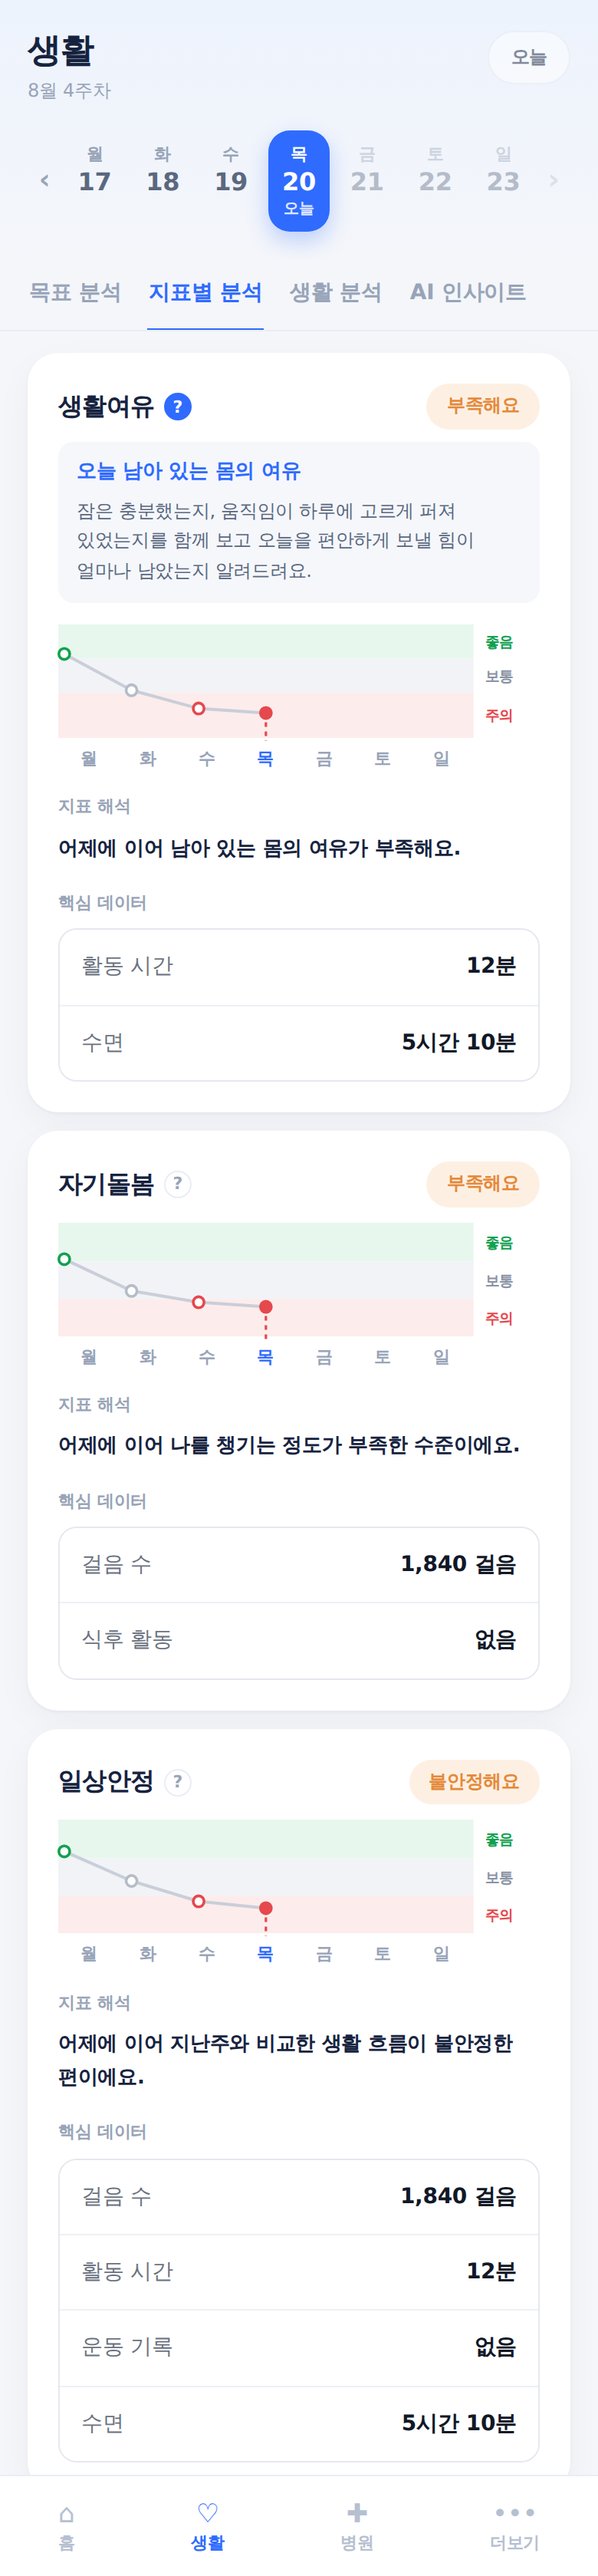
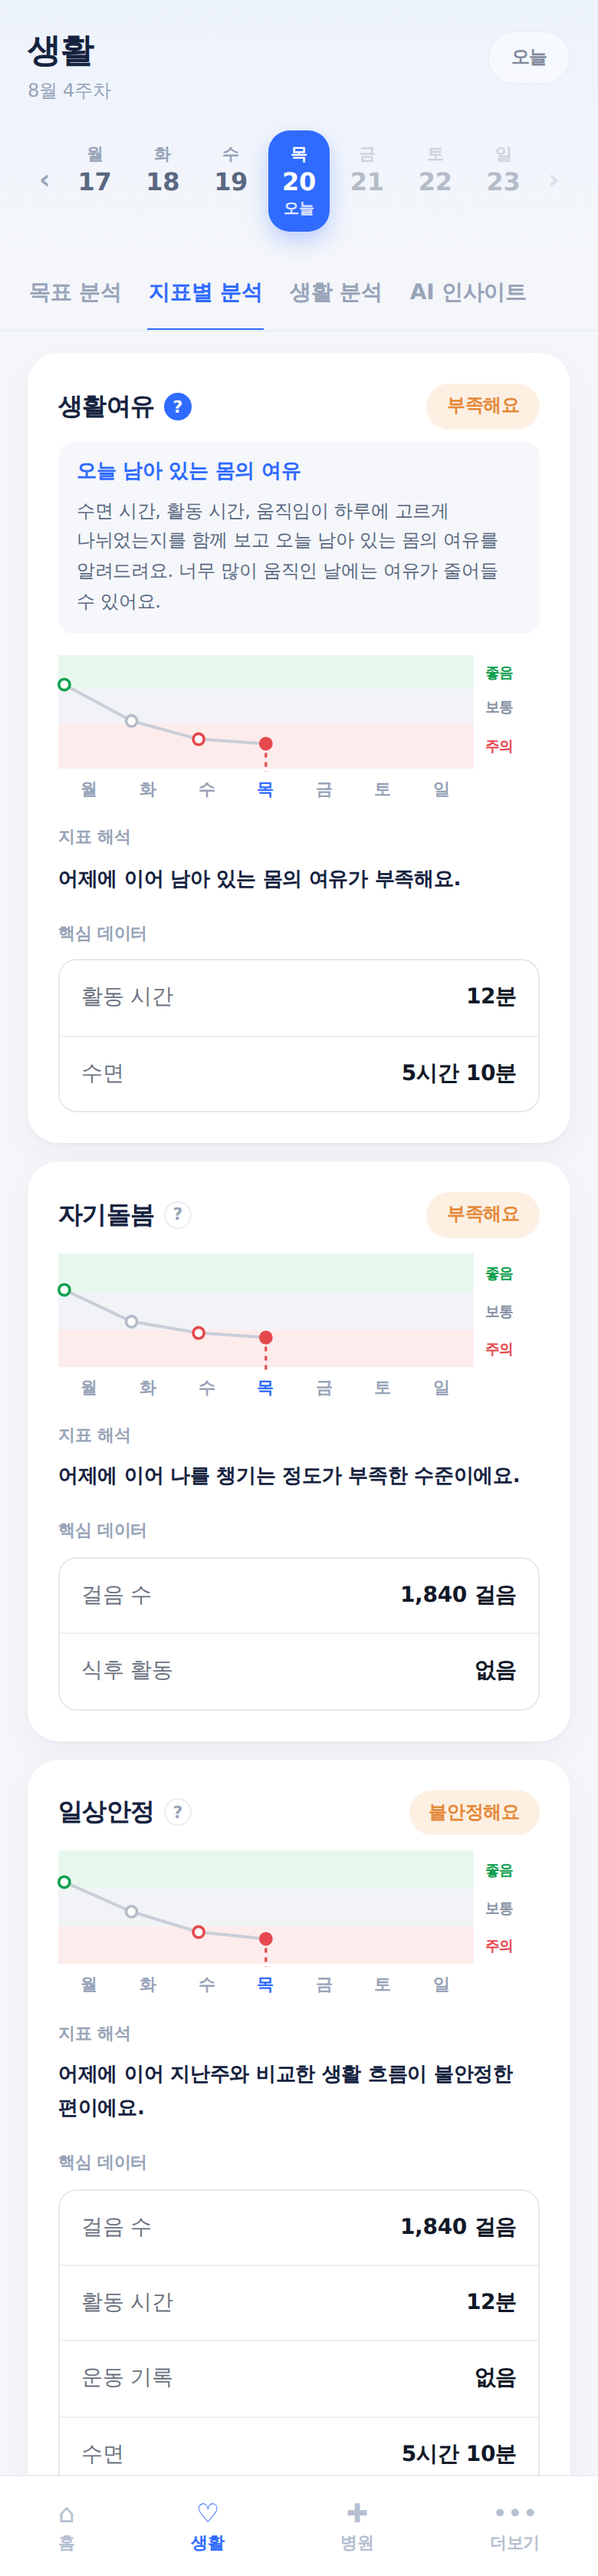
지표 설명 문장 다듬기

diff --git a/prototype.html b/prototype.html
@@ -3201,7 +3201,7 @@ const STATE_TONE = {
 const METRIC_COLOR = { margin:'#12A150', selfcare:'#D98A12', steady:'#7C5CFC' };
 const METRICS = [
   {k:'margin', nm:'생활여유', en:'Life Margin',
-   desc:'오늘 남아 있는 몸의 여유', expl:'잠은 충분했는지, 움직임이 하루에 고르게 퍼져 있었는지를 함께 보고 오늘을 편안하게 보낼 힘이 얼마나 남았는지 알려드려요.',
+   desc:'오늘 남아 있는 몸의 여유', expl:'수면 시간, 활동 시간, 움직임이 하루에 고르게 나뉘었는지를 함께 보고 오늘 남아 있는 몸의 여유를 알려드려요. 너무 많이 움직인 날에는 여유가 줄어들 수 있어요.',
    states:{good:'충분해요', mid:'보통이에요', low:'부족해요'},
    state:'low', prev:'low',
    line:'오늘은 하루를 이어갈 여유가 많이 부족해요.',
@@ -3209,7 +3209,7 @@ const METRICS = [
    note:'화요일부터 수면이 짧고 자주 끊겼고 낮 활동도 거의 없어, 회복에 쓸 여유가 계속 줄어든 사흘이었어요.',
    rows:['sleep','active','exercise']},
   {k:'selfcare', nm:'자기돌봄', en:'Self-Care Moments',
-   desc:'오늘 나를 챙긴 정도', expl:'식사 뒤, 오래 앉아 있던 뒤처럼 몸을 챙기기 좋은 순간에 실제로 가볍게 움직였는지 살펴봐요. 많이 움직였는지가 아니라 알맞은 때에 움직였는지가 기준이에요.',
+   desc:'오늘 나를 챙긴 정도', expl:'하루 걸음 수와 식사 뒤 가볍게 움직였는지를 함께 보고 오늘 나를 얼마나 챙겼는지 알려드려요.',
    states:{good:'잘하고 있어요', mid:'보통이에요', low:'부족해요'},
    state:'low', prev:'low',
    line:'움직일 수 있는 순간에도 거의 쉬고 있어요.',
@@ -3217,7 +3217,7 @@ const METRICS = [
    note:'화요일 이후 식사 뒤나 오래 누워 있던 뒤에 이어지는 움직임이 거의 없었어요. 아픈 동안에는 자연스러운 흐름이에요.',
    rows:['active','exercise','record']},
   {k:'steady', nm:'일상안정', en:'Life Steadying',
-   desc:'지난주와 비교한 생활 흐름', expl:'최근 7일의 걸음·활동·운동 기록과 수면 규칙성을 그 전 7일과 비교해, 생활 흐름이 어느 쪽으로 바뀌었는지 봐요. 지난주와 비슷하면 보통이에요.',
+   desc:'지난주와 비교한 생활 흐름', expl:'최근 7일의 걸음 수 · 활동 시간 · 운동 기록과 수면 규칙성을 그 전 7일과 비교해, 생활 흐름이 안정적으로 이어지고 있는지 알려드려요.',
    states:{good:'안정적이에요', mid:'비슷해요', low:'불안정해요'},
    state:'low', prev:'low',
    line:'화요일부터 생활 신호가 평소 범위를 크게 벗어나 있어요.',

diff --git a/wip-metric.html b/wip-metric.html
@@ -622,7 +622,7 @@ const SIDE = {
       ["상세 규칙","‘지표 해석 문장 규칙’ 문서 참고"]]},
   info:{id:"LIFE-002", title:"지표 설명 펼침", img:()=>"info",
     desc:"지표명 옆 ‘?’를 누르면 지표 정의가 펼쳐지는 상태.",
-    info:[["한 줄 정의","고정 문구",["생활여유: ‘오늘 남아 있는 몸의 여유’","자기돌봄: ‘오늘 나를 챙긴 정도’","일상안정: ‘지난주와 비교한 생활 흐름’"]],["설명 · 생활여유","고정 문구","‘잠은 충분했는지, 움직임이 하루에 고르게 퍼져 있었는지를 함께 보고 오늘을 편안하게 보낼 힘이 얼마나 남았는지 알려드려요.’"],["설명 · 자기돌봄","고정 문구","‘식사 뒤, 오래 앉아 있던 뒤처럼 몸을 챙기기 좋은 순간에 실제로 가볍게 움직였는지 살펴봐요. 많이 움직였는지가 아니라 알맞은 때에 움직였는지가 기준이에요.’"],["설명 · 일상안정","고정 문구","‘최근 7일의 걸음·활동·운동 기록과 수면 규칙성을 그 전 7일과 비교해, 생활 흐름이 어느 쪽으로 바뀌었는지 봐요. 지난주와 비슷하면 보통이에요.’"]],
+    info:[["한 줄 정의","고정 문구",["생활여유: ‘오늘 남아 있는 몸의 여유’","자기돌봄: ‘오늘 나를 챙긴 정도’","일상안정: ‘지난주와 비교한 생활 흐름’"]],["설명 · 생활여유","고정 문구","‘수면 시간, 활동 시간, 움직임이 하루에 고르게 나뉘었는지를 함께 보고 오늘 남아 있는 몸의 여유를 알려드려요. 너무 많이 움직인 날에는 여유가 줄어들 수 있어요.’"],["설명 · 자기돌봄","고정 문구","‘하루 걸음 수와 식사 뒤 가볍게 움직였는지를 함께 보고 오늘 나를 얼마나 챙겼는지 알려드려요.’"],["설명 · 일상안정","고정 문구","‘최근 7일의 걸음 수 · 활동 시간 · 운동 기록과 수면 규칙성을 그 전 7일과 비교해, 생활 흐름이 안정적으로 이어지고 있는지 알려드려요.’"]],
     spec:[["열기 · 닫기",["‘?’를 누를 때마다 펼침 · 접힘","펼친 동안 ‘?’ 강조"]],
       ["위치","배지 아래, 그래프 위"],
       ["범위","카드별로 따로 열림"]]},
